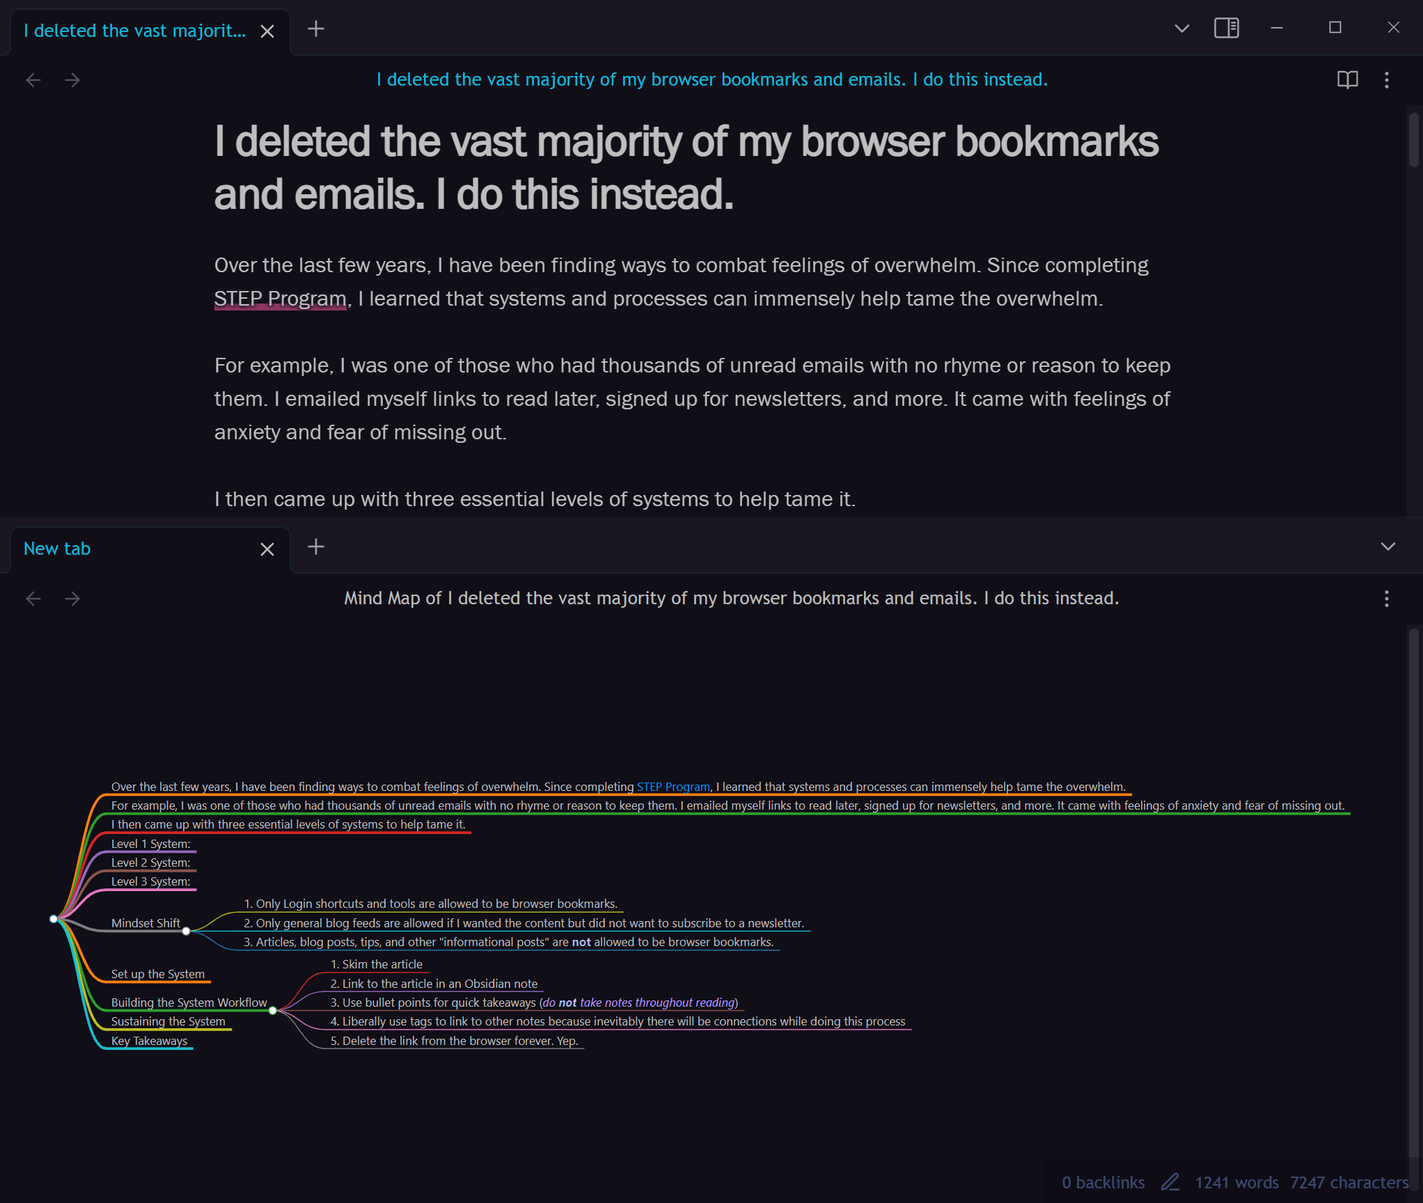
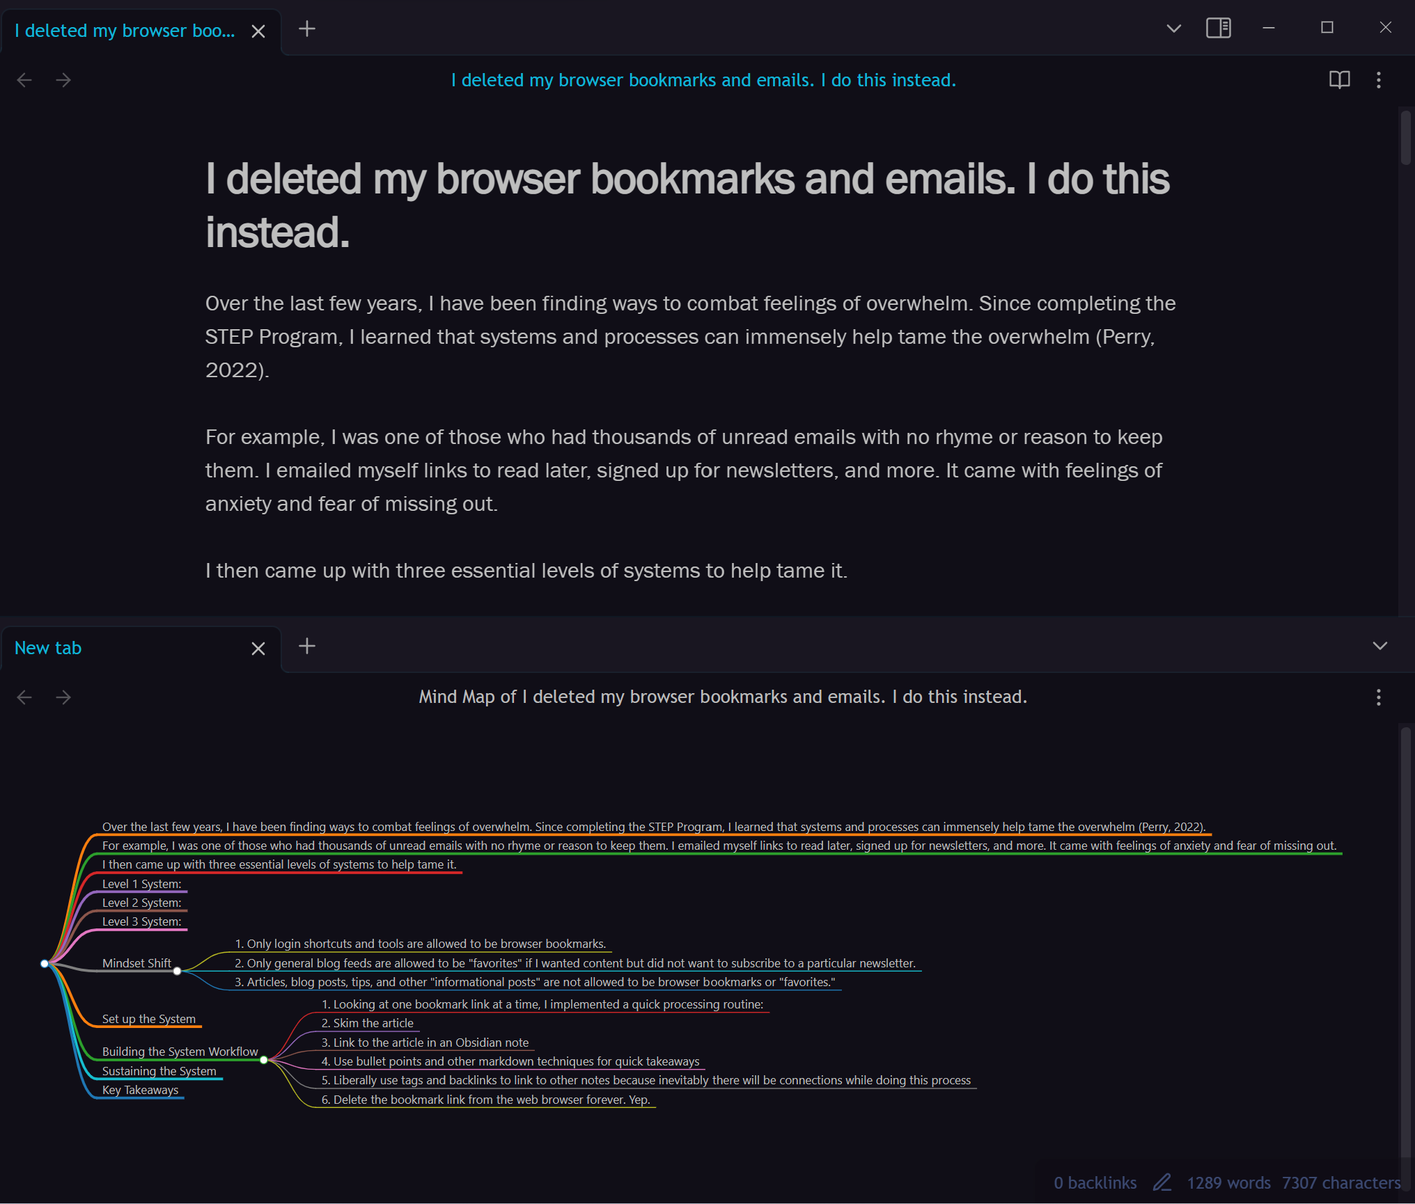
Blog Update
Blog Update

diff --git a/docs/posts/obsidian-adventures/index.html b/docs/posts/obsidian-adventures/index.html
@@ -169,6 +169,9 @@ background-size: cover;
                 <div class="quarto-category">markdown</div>
                 <div class="quarto-category">obsidian</div>
                 <div class="quarto-category">notetaking</div>
+                <div class="quarto-category">productivity</div>
+                <div class="quarto-category">PKM</div>
+                <div class="quarto-category">secondbrain</div>
               </div>
                   </div>
   </div>
@@ -219,26 +222,26 @@ background-size: cover;
 <h3 class="anchored" data-anchor-id="level-3-system">Level 3 System:</h3>
 <p>The Level 3 System involves processing any sort of input (including emails) and incorporating them into a Personal Knowledge Management System.</p>
 <p>But first, <em>what is a Personal Knowledge Management System?</em></p>
-<p>Wikipedia states that <a href="https://en.wikipedia.org/wiki/Personal_knowledge_management">Personal Knowledge Management</a> occurs when someone is collecting information to then classify, store, search, retrieve and share as knowledge. Here is a <a href="https://youtu.be/Q2WBHyqRsxA">great video</a> that explains it as a way we make sense of the world (<em>Personal knowledge management</em> 2022)(Linking Your Thinking, 2021).</p>
+<p>Wikipedia states that <a href="https://en.wikipedia.org/wiki/Personal_knowledge_management">Personal Knowledge Management</a> (PKM) occurs when someone is collecting information to then classify, store, search, retrieve and share as knowledge. Here is a <a href="https://youtu.be/Q2WBHyqRsxA">great video</a> that explains it as a way we make sense of the world (<em>Personal knowledge management</em> 2022)(Linking Your Thinking, 2021).</p>
 <p>Now that we have a basic understanding of the concept, let me introduce you to how I am learning how to set up a Personal Knowledge Management system using <a href="https://www.instapaper.com/">Instapaper</a>, <a href="http://obsidian.md/">Obsidian</a>, and <a href="https://www.dropbox.com/">Dropbox</a>.</p>
 </section>
 <section id="mindset-shift" class="level3">
 <h3 class="anchored" data-anchor-id="mindset-shift">Mindset Shift</h3>
-<p>Prior to the first step in setting this up involved a mindset shift in how I wanted to change things. Without a mindset shift, I risked not successfully implementing the change I wanted to see. For this effort, I recognized that I did not like having piles of emails, forgotten favorites, and unorganized bookmarks. The “gems” I forwarded to myself via email to look into and act upon were unfortunately lost in the noise. I did not like that.</p>
+<p>Prior to the first step in setting up a PKM system involved a mindset shift in how I wanted to change things. Without a mindset shift, I risked not successfully implementing the change I wanted to see. For this effort, I recognized that I did not like having piles of emails, forgotten favorites, and unorganized bookmarks. The “gems” I forwarded to myself via email to look into and act upon were unfortunately lost in the noise. I did not like that.</p>
 <p>I then crafted a plan for a future state.</p>
 <p>Those who are on a quest to find better ways to capture thoughts and remember things may or may not be familiar with concepts such as a <a href="https://www.developgoodhabits.com/brain-dump/">“Brain Dump,</a>” a <a href="https://fortelabs.com/blog/12-steps-to-build-a-second-brain/">“Second Brain,”</a> or perhaps even a <a href="https://memorise.org/memory-training/mind-palace-memory-technique">“Mind Palace.”</a></p>
-<p>I like to think that setting up a system (“Second Brain”) that allows for getting thoughts out of my mind on a regular basis (“Brain Dump”) creates an opportunity to relieve stress and remember things better from spatial associations (“Mind Palace”). This was the future state I wanted. (Forte, 2022) (Mathers, 2022)(<em>Mind palace memory technique</em> 2020).</p>
-<p>I came up with a series of “Ground Rules” implement the future state. The first few “Ground Rules” designated browser bookmarks and favorites with a much tighter definition:</p>
+<p>I like to think that setting up a system (“Second Brain”) will allow for getting thoughts out of my mind on a regular basis (“Brain Dump”). It also could create an opportunity to relieve stress and remember things better from spatial associations (“Mind Palace”). This was the future state I wanted. (Forte, 2022) (Mathers, 2022)(<em>Mind palace memory technique</em> 2020).</p>
+<p>I came up with a series of “Ground Rules” to implement this future state for me. The first few “Ground Rules” designated browser bookmarks and favorites with a much tighter definition:</p>
 <ol type="1">
 <li><p>Only login shortcuts and tools are allowed to be browser bookmarks.</p></li>
-<li><p>Only general blog feeds are allowed to be “favorites” if I wanted the content but did not want to subscribe to a newsletter.</p></li>
+<li><p>Only general blog feeds are allowed to be “favorites” if I wanted content but did not want to subscribe to a particular newsletter.</p></li>
 <li><p>Articles, blog posts, tips, and other “informational posts” are <strong>not</strong> allowed to be browser bookmarks or “favorites.”</p></li>
 </ol>
 <p>I also created tighter rules around emails, which I will come back to in a minute.</p>
 </section>
 <section id="set-up-the-system" class="level3">
 <h3 class="anchored" data-anchor-id="set-up-the-system">Set up the System</h3>
-<p>I downloaded and installed Obsidian. I connected it to a folder on Dropbox to allow for backups. I picked out a theme I liked as well as a couple plug-ins that higlight code syntax and create visual mind maps of notes. Beyond that, I stopped customizing at that time and moved on to the heavy-lifting of the system setup.</p>
+<p>I downloaded and installed Obsidian. I connected it to a folder on Dropbox to allow for backups. I picked out a theme I liked as well as a couple plug-ins that highlight code syntax and create visual mind maps of notes. Beyond that, I stopped customizing at that time and moved on to the heavy-lifting of the system setup.</p>
 <div class="quarto-figure quarto-figure-center">
 <figure class="figure">
 <p><img src="plugins.png" class="img-fluid figure-img"></p>
@@ -248,18 +251,33 @@ background-size: cover;
 </section>
 <section id="building-the-system-workflow" class="level3">
 <h3 class="anchored" data-anchor-id="building-the-system-workflow">Building the System Workflow</h3>
-<p>Once I decided upon reasonable “Ground Rules” for emails and bookmarks, I went to work. I started a new folder in Obsidian for each topic I was interested in tracking thoughts in. I then started new notes in each folder.</p>
+<p>Once I decided upon reasonable “Ground Rules” for emails and bookmarks, I went to work. I started a new folder in Obsidian for each topic I was interested in. I then started new notes in each folder.</p>
 <p>Looking at one bookmark link at a time, I implemented a quick processing routine:</p>
 <ol type="1">
 <li><p>Skim the article</p></li>
 <li><p>Link to the article in an Obsidian note</p></li>
-<li><p>Use bullet points and other <a href="https://www.jisellhowe.com/posts/exploring-everyday-possibilities-in-markdown/">markdown techniques</a> for quick takeaways (<em>do <strong>not</strong> take notes throughout reading</em>)</p></li>
-<li><p>Liberally use tags and backlinks to link to other notes because inevitably there will be connections while doing this process</p></li>
-<li><p>Delete the link from the web browser forever. Yep.</p></li>
+<li><p>Use bullet points and other <a href="https://www.jisellhowe.com/posts/exploring-everyday-possibilities-in-markdown/">markdown techniques</a> for quick takeaways</p></li>
 </ol>
-<p>I repeated this routine for upwards of 40 times, ruthlessly deleting links left and right. Pretty soon, I was left with a couple key shortcut logins and some shortcuts for work.</p>
+<div class="callout-important callout callout-style-default callout-captioned">
+<div class="callout-header d-flex align-content-center">
+<div class="callout-icon-container">
+<i class="callout-icon"></i>
+</div>
+<div class="callout-caption-container flex-fill">
+Important
+</div>
+</div>
+<div class="callout-body-container callout-body">
+<p>Do <strong>not</strong> take notes throughout reading. Only record the few things you may implement as action items.</p>
+</div>
+</div>
+<ol start="4" type="1">
+<li><p>Liberally use tags and backlinks to link to other notes because inevitably there will be connections while doing this process</p></li>
+<li><p>Delete the bookmark link from the web browser forever. Yep.</p></li>
+</ol>
+<p>I repeated this routine for upwards of 40 times, quickly deleting links left and right. Pretty soon, I was left with a couple key shortcut logins and some shortcuts for work.</p>
 <p>I did a very similar routine with my emails. As I mentioned earlier, good email marketing will draw you in with catchy subject lines. I relied on that concept to either delete the unfortunately uninteresting email newsletters immediately or follow a similar routine that I had for the bookmarks.</p>
-<p>The fear of missing out had an initial hit but faded throughout the process. When it comes down to it, would you rather have so many emails captured that you never read, or would you want to make something extra special out of the few things you did read?</p>
+<p>The fear of missing out had an initial hit but faded throughout the process. When it comes down to it, would you rather have so many emails captured that you never read, or would you want to create something extra special out of the few things you did read?</p>
 <p>By this point, I had several folders and notes captured within Obsidian. I started seeing connections between various things I wanted to try and articles I read. The mind map visual from an Obsidian plug-in is a nice touch. As I took notes, I realized that I was creating action items. The action items that had two or more connections resulted in some neat projects I really want to build. None of this would have happened if these things were still sitting in my emails and bookmarks.</p>
 <div class="quarto-figure quarto-figure-center">
 <figure class="figure">
@@ -273,11 +291,11 @@ background-size: cover;
 <p>Here is where <a href="https://www.instapaper.com/">Instapaper</a> comes into play.</p>
 <p>After signing up for an account, I made sure to make it an available option to “Share” links to.</p>
 <p>On my phone I am able to take links and “Share” them to Instapaper and move on with my day. What that does is create a “queue” where I can read articles and then process into takeaways for my Obsidian notes. Once I’m done reading an article on Instapaper, I archive it.</p>
-<p>Finally, great ideas are no longer sent to a forgotten pit of doom in my email inbox.</p>
+<p>Finally… great ideas are no longer sent to a forgotten pit of doom in my email inbox.</p>
 </section>
 <section id="key-takeaways" class="level3">
 <h3 class="anchored" data-anchor-id="key-takeaways">Key Takeaways</h3>
-<p>This was a high-level overview of the how and why with regard to how I am learning to set up a Personal Management System. I state that I am *learning* because tomorrow I may implement a tweak in my systems upon new information and understanding. And to end this blog post, that was the whole point all along.</p>
+<p>This was a high-level overview of the how and why with regard to how I am learning to set up a Personal Management System. I state that I am <em>learning</em> because tomorrow I may implement a tweak in my systems upon new information and understanding. And to end this blog post, that was the whole point all along.</p>
 <p>--</p>
 <p>Sources Cited</p>
 <p>Forte, T. (2022, September 14). <em>12 steps to build a second brain</em>. Forte Labs. Retrieved December 12, 2022, from https://fortelabs.com/blog/12-steps-to-build-a-second-brain/</p>

diff --git a/docs/posts.html b/docs/posts.html
@@ -202,7 +202,7 @@ ul.task-list li input[type="checkbox"] {
 <!-- margin-sidebar -->
     <div id="quarto-margin-sidebar" class="sidebar margin-sidebar">
         
-    <h5 class="quarto-listing-category-title">Categories</h5><div class="quarto-listing-category category-default"><div class="category" data-category="">All <span class="quarto-category-count">(23)</span></div><div class="category" data-category="BIM">BIM <span class="quarto-category-count">(3)</span></div><div class="category" data-category="actions">actions <span class="quarto-category-count">(4)</span></div><div class="category" data-category="analysis">analysis <span class="quarto-category-count">(14)</span></div><div class="category" data-category="animation">animation <span class="quarto-category-count">(3)</span></div><div class="category" data-category="areachart">areachart <span class="quarto-category-count">(1)</span></div><div class="category" data-category="barchart">barchart <span class="quarto-category-count">(3)</span></div><div class="category" data-category="books">books <span class="quarto-category-count">(1)</span></div><div class="category" data-category="bubblechart">bubblechart <span class="quarto-category-count">(1)</span></div><div class="category" data-category="career">career <span class="quarto-category-count">(2)</span></div><div class="category" data-category="coding">coding <span class="quarto-category-count">(1)</span></div><div class="category" data-category="colorblindfriendly">colorblindfriendly <span class="quarto-category-count">(1)</span></div><div class="category" data-category="construction">construction <span class="quarto-category-count">(3)</span></div><div class="category" data-category="courses">courses <span class="quarto-category-count">(2)</span></div><div class="category" data-category="customfont">customfont <span class="quarto-category-count">(4)</span></div><div class="category" data-category="html">html <span class="quarto-category-count">(1)</span></div><div class="category" data-category="imagebackgrounds">imagebackgrounds <span class="quarto-category-count">(1)</span></div><div class="category" data-category="jitterplot">jitterplot <span class="quarto-category-count">(1)</span></div><div class="category" data-category="linechart">linechart <span class="quarto-category-count">(1)</span></div><div class="category" data-category="linegraph">linegraph <span class="quarto-category-count">(1)</span></div><div class="category" data-category="lollipop">lollipop <span class="quarto-category-count">(1)</span></div><div class="category" data-category="makeovermonday">makeovermonday <span class="quarto-category-count">(14)</span></div><div class="category" data-category="manufacturing">manufacturing <span class="quarto-category-count">(2)</span></div><div class="category" data-category="map">map <span class="quarto-category-count">(1)</span></div><div class="category" data-category="markdown">markdown <span class="quarto-category-count">(3)</span></div><div class="category" data-category="mastodon">mastodon <span class="quarto-category-count">(1)</span></div><div class="category" data-category="notetaking">notetaking <span class="quarto-category-count">(1)</span></div><div class="category" data-category="obsidian">obsidian <span class="quarto-category-count">(1)</span></div><div class="category" data-category="parameters">parameters <span class="quarto-category-count">(3)</span></div><div class="category" data-category="personalproject">personalproject <span class="quarto-category-count">(5)</span></div><div class="category" data-category="piechart">piechart <span class="quarto-category-count">(1)</span></div><div class="category" data-category="powerbi">powerbi <span class="quarto-category-count">(2)</span></div><div class="category" data-category="productivity">productivity <span class="quarto-category-count">(1)</span></div><div class="category" data-category="python">python <span class="quarto-category-count">(2)</span></div><div class="category" data-category="quarto">quarto <span class="quarto-category-count">(3)</span></div><div class="category" data-category="recommendations">recommendations <span class="quarto-category-count">(1)</span></div><div class="category" data-category="rstats">rstats <span class="quarto-category-count">(1)</span></div><div class="category" data-category="sankeychart">sankeychart <span class="quarto-category-count">(1)</span></div><div class="category" data-category="scatterplot">scatterplot <span class="quarto-category-count">(1)</span></div><div class="category" data-category="shapes">shapes <span class="quarto-category-count">(3)</span></div><div class="category" data-category="smallmultiples">smallmultiples <span class="quarto-category-count">(1)</span></div><div class="category" data-category="table">table <span class="quarto-category-count">(1)</span></div><div class="category" data-category="tableau">tableau <span class="quarto-category-count">(14)</span></div><div class="category" data-category="treemap">treemap <span class="quarto-category-count">(2)</span></div><div class="category" data-category="wafflechart">wafflechart <span class="quarto-category-count">(3)</span></div></div></div>
+    <h5 class="quarto-listing-category-title">Categories</h5><div class="quarto-listing-category category-default"><div class="category" data-category="">All <span class="quarto-category-count">(23)</span></div><div class="category" data-category="BIM">BIM <span class="quarto-category-count">(3)</span></div><div class="category" data-category="PKM">PKM <span class="quarto-category-count">(1)</span></div><div class="category" data-category="actions">actions <span class="quarto-category-count">(4)</span></div><div class="category" data-category="analysis">analysis <span class="quarto-category-count">(14)</span></div><div class="category" data-category="animation">animation <span class="quarto-category-count">(3)</span></div><div class="category" data-category="areachart">areachart <span class="quarto-category-count">(1)</span></div><div class="category" data-category="barchart">barchart <span class="quarto-category-count">(3)</span></div><div class="category" data-category="books">books <span class="quarto-category-count">(1)</span></div><div class="category" data-category="bubblechart">bubblechart <span class="quarto-category-count">(1)</span></div><div class="category" data-category="career">career <span class="quarto-category-count">(2)</span></div><div class="category" data-category="coding">coding <span class="quarto-category-count">(1)</span></div><div class="category" data-category="colorblindfriendly">colorblindfriendly <span class="quarto-category-count">(1)</span></div><div class="category" data-category="construction">construction <span class="quarto-category-count">(3)</span></div><div class="category" data-category="courses">courses <span class="quarto-category-count">(2)</span></div><div class="category" data-category="customfont">customfont <span class="quarto-category-count">(4)</span></div><div class="category" data-category="html">html <span class="quarto-category-count">(1)</span></div><div class="category" data-category="imagebackgrounds">imagebackgrounds <span class="quarto-category-count">(1)</span></div><div class="category" data-category="jitterplot">jitterplot <span class="quarto-category-count">(1)</span></div><div class="category" data-category="linechart">linechart <span class="quarto-category-count">(1)</span></div><div class="category" data-category="linegraph">linegraph <span class="quarto-category-count">(1)</span></div><div class="category" data-category="lollipop">lollipop <span class="quarto-category-count">(1)</span></div><div class="category" data-category="makeovermonday">makeovermonday <span class="quarto-category-count">(14)</span></div><div class="category" data-category="manufacturing">manufacturing <span class="quarto-category-count">(2)</span></div><div class="category" data-category="map">map <span class="quarto-category-count">(1)</span></div><div class="category" data-category="markdown">markdown <span class="quarto-category-count">(3)</span></div><div class="category" data-category="mastodon">mastodon <span class="quarto-category-count">(1)</span></div><div class="category" data-category="notetaking">notetaking <span class="quarto-category-count">(1)</span></div><div class="category" data-category="obsidian">obsidian <span class="quarto-category-count">(1)</span></div><div class="category" data-category="parameters">parameters <span class="quarto-category-count">(3)</span></div><div class="category" data-category="personalproject">personalproject <span class="quarto-category-count">(5)</span></div><div class="category" data-category="piechart">piechart <span class="quarto-category-count">(1)</span></div><div class="category" data-category="powerbi">powerbi <span class="quarto-category-count">(2)</span></div><div class="category" data-category="productivity">productivity <span class="quarto-category-count">(2)</span></div><div class="category" data-category="python">python <span class="quarto-category-count">(2)</span></div><div class="category" data-category="quarto">quarto <span class="quarto-category-count">(3)</span></div><div class="category" data-category="recommendations">recommendations <span class="quarto-category-count">(1)</span></div><div class="category" data-category="rstats">rstats <span class="quarto-category-count">(1)</span></div><div class="category" data-category="sankeychart">sankeychart <span class="quarto-category-count">(1)</span></div><div class="category" data-category="scatterplot">scatterplot <span class="quarto-category-count">(1)</span></div><div class="category" data-category="secondbrain">secondbrain <span class="quarto-category-count">(1)</span></div><div class="category" data-category="shapes">shapes <span class="quarto-category-count">(3)</span></div><div class="category" data-category="smallmultiples">smallmultiples <span class="quarto-category-count">(1)</span></div><div class="category" data-category="table">table <span class="quarto-category-count">(1)</span></div><div class="category" data-category="tableau">tableau <span class="quarto-category-count">(14)</span></div><div class="category" data-category="treemap">treemap <span class="quarto-category-count">(2)</span></div><div class="category" data-category="wafflechart">wafflechart <span class="quarto-category-count">(3)</span></div></div></div>
 <!-- main -->
 <main class="content quarto-banner-title-block column-page-left" id="quarto-document-content">
 
@@ -215,7 +215,7 @@ ul.task-list li input[type="checkbox"] {
 
 <div class="quarto-listing quarto-listing-container-grid" id="listing-listing">
 <div class="list grid quarto-listing-cols-3">
-<div class="g-col-1" data-index="0" data-categories="markdown,obsidian,notetaking" data-listing-date-sort="1670911200000" data-listing-file-modified-sort="1670979203982" data-listing-reading-time-sort="6.815">
+<div class="g-col-1" data-index="0" data-categories="markdown,obsidian,notetaking,productivity,PKM,secondbrain" data-listing-date-sort="1670911200000" data-listing-file-modified-sort="1670981514555" data-listing-reading-time-sort="6.905">
 <a href="./posts/obsidian-adventures/index.html" class="quarto-grid-link">
 <div class="quarto-grid-item card h-100 card-left">
 <p class="card-img-top">
@@ -234,6 +234,15 @@ obsidian
 </div>
 <div class="listing-category" onclick="window.quartoListingCategory('notetaking'); return false;">
 notetaking
+</div>
+<div class="listing-category" onclick="window.quartoListingCategory('productivity'); return false;">
+productivity
+</div>
+<div class="listing-category" onclick="window.quartoListingCategory('PKM'); return false;">
+PKM
+</div>
+<div class="listing-category" onclick="window.quartoListingCategory('secondbrain'); return false;">
+secondbrain
 </div>
 </div>
 <div class="card-text listing-description">
